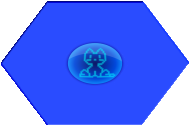
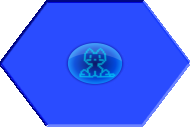
Smoothed the edges of the Nekobee hexagon GUI

diff --git a/plugins/nekobee_blue_gui/nekobeewidget.cpp b/plugins/nekobee_blue_gui/nekobeewidget.cpp
@@ -161,6 +161,20 @@ bool NekobeeWidget::on_expose_event(GdkEventExpose* event) {
   ::Cairo::RefPtr< ::Cairo::Context > cc = win->create_cairo_context();
   cc->set_line_join(::Cairo::LINE_JOIN_ROUND);
   
+  // soften edges
+  Gdk::Color bg = get_style()->get_bg(STATE_NORMAL);
+  cc->move_to(46, 0);
+  cc->line_to(144, 0);
+  cc->line_to(191, 62);
+  cc->line_to(143, 126);
+  cc->line_to(46, 126);
+  cc->line_to(-2, 63);
+  cc->line_to(46, 0);
+  cc->set_line_width(2);
+  cc->set_source_rgba(bg.get_red() / 65535.0, bg.get_green() / 65535.0, 
+		      bg.get_blue() / 65535.0, 1.0);
+  cc->stroke();
+  
   // bars
   draw_bar(cc, 61, 65, 76, 84, 46, 123, 2, 65, Tuning);
   draw_bar(cc, 113, 84, 119.5, 75.767, 164, 95.267, 143, 123, Cutoff);
